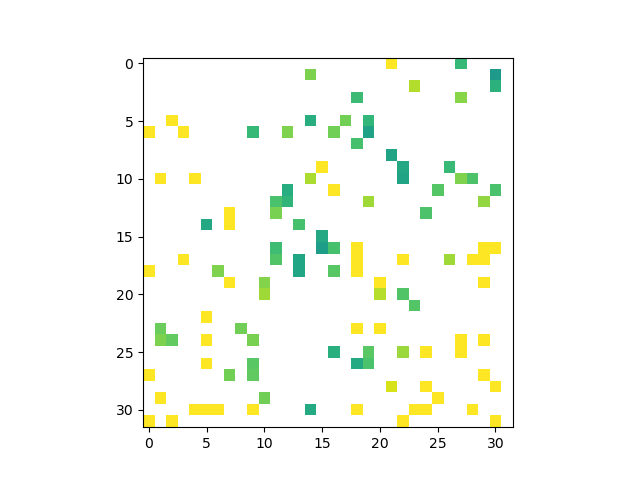
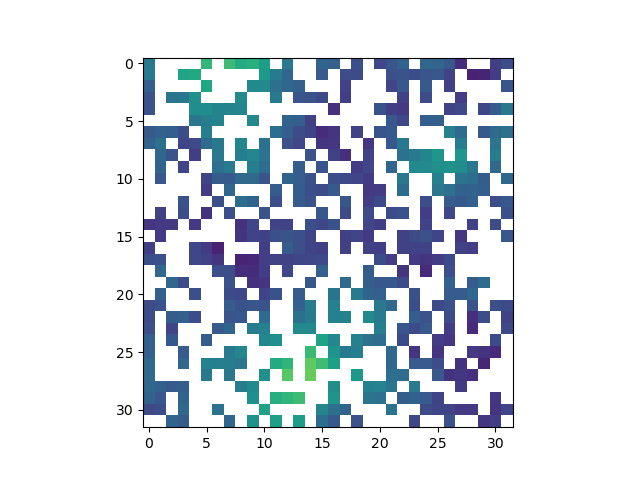
model 10 50 percent observed diffusion samples 1000

Changed region(s): [[0.2188, 0.125, 0.8125, 0.9062]]

diff --git a/validation/unparameterized/conditional_masked/brown_resnick/generate_data/conditional_mask_data_generation.py b/validation/unparameterized/conditional_masked/brown_resnick/generate_data/conditional_mask_data_generation.py
@@ -137,7 +137,7 @@ print(ref_img.shape)
 
 ref_img = (th.from_numpy(global_quantile_boundary_process(ref_img, trainlogmaxmin[0],
 trainlogmaxmin[1], trainlogmaxmin[2])).reshape((250,1,n,n))[0,:,:,:]).to(device)
-p = 0
+p = .5
 mask = (th.bernoulli(p*th.ones(1,1,n,n))).to(device)
 replicates_per_call = 250
 calls = 1
@@ -145,17 +145,17 @@ for i in range(0,4):
     y = ((th.mul(mask, ref_img)).to(device)).float()
     conditional_samples = sample_conditionally_multiple_calls(sdevp, score_model, device, mask, y, n,
                                           replicates_per_call, calls)
-    np.save("data/conditional/model10/ref_img1/model10_random0_beta_min_max_01_20_1000_random0_250_" + str(i) + ".npy", conditional_samples)
+    np.save("data/conditional/model10/ref_img2/model10_random0_beta_min_max_01_20_1000_random0_250_" + str(i) + ".npy", conditional_samples)
     partially_observed = (mask*ref_img).detach().cpu().numpy().reshape((n,n))
-    np.save("data/conditional/model10/ref_img1/ref_image1.npy", ref_img.detach().cpu().numpy().reshape((n,n)))
-    np.save("data/conditional/model10/ref_img1/partially_observed_field.npy", partially_observed.reshape((n,n)))
-    np.save("data/conditional/model10/ref_img1/mask.npy", mask.int().detach().cpu().numpy().reshape((n,n)))
-    np.save("data/conditional/model10/ref_img1/seed_value.npy", np.array([int(seed_value)]))
+    np.save("data/conditional/model10/ref_img2/ref_image1.npy", ref_img.detach().cpu().numpy().reshape((n,n)))
+    np.save("data/conditional/model10/ref_img2/partially_observed_field.npy", partially_observed.reshape((n,n)))
+    np.save("data/conditional/model10/ref_img2/mask.npy", mask.int().detach().cpu().numpy().reshape((n,n)))
+    np.save("data/conditional/model10/ref_img2/seed_value.npy", np.array([int(seed_value)]))
 
-    plot_spatial_field(ref_img.detach().cpu().numpy().reshape((n,n)), -2, 4, "data/conditional/model10/ref_img1/ref_image.png")
-    plot_spatial_field((conditional_samples[0,:,:,:]).numpy().reshape((n,n)), -2, 4, "data/conditional/model10/ref_img1/conditional_sample_0.png")
+    plot_spatial_field(ref_img.detach().cpu().numpy().reshape((n,n)), -2, 4, "data/conditional/model10/ref_img2/ref_image.png")
+    plot_spatial_field((conditional_samples[0,:,:,:]).numpy().reshape((n,n)), -2, 4, "data/conditional/model10/ref_img2/conditional_sample_0.png")
     plot_masked_spatial_field(spatial_field = ref_img.detach().cpu().numpy().reshape((n,n)),
-                   vmin = -2, vmax = 4, mask = mask.int().float().detach().cpu().numpy().reshape((n,n)), figname = "data/conditional/ref_img1/partially_observed_field.png")
+                   vmin = -2, vmax = 4, mask = mask.int().float().detach().cpu().numpy().reshape((n,n)), figname = "data/conditional/ref_img2/partially_observed_field.png")
 """
 number_of_replicates = 2250
 print(number_of_replicates)
